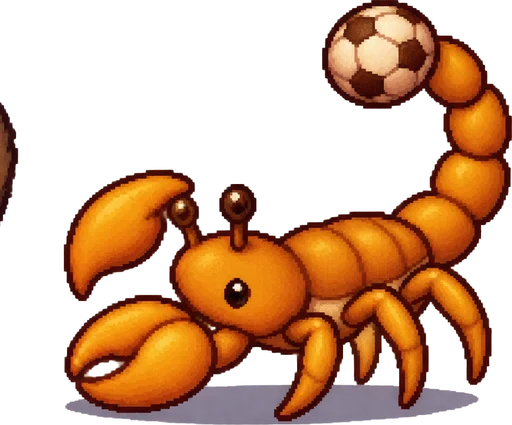
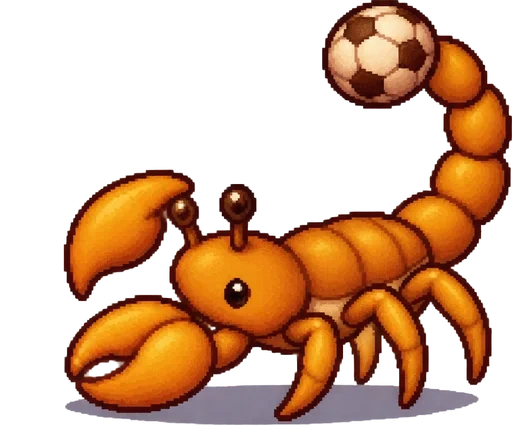
Lenda do Campinho v313: pedaços soltos apagados das artes de 8 bichos (Aranha Goleira e outros)
Pedaços da arte vizinha da grade tinham entrado no recorte (aranha, dragão, escorpião, gárgula, polvo, rato, cristal,
pombo). Apagados sem mudar o tamanho da imagem; ASSET_VER 313 para o navegador pegar a nova.

Changed region(s): [[0.0, 0.2447, 0.0625, 0.52]]

diff --git a/frontend/public/lenda-do-campinho/index.html b/frontend/public/lenda-do-campinho/index.html
@@ -11,8 +11,8 @@
 <link rel="preconnect" href="https://fonts.googleapis.com">
 <link rel="preconnect" href="https://fonts.gstatic.com" crossorigin>
 <link href="https://fonts.googleapis.com/css2?family=Fredoka:wght@500;600;700&family=Nunito:wght@600;700;800&display=swap" rel="stylesheet">
-<link rel="stylesheet" href="css/style.css?v=312">
-<link rel="stylesheet" href="css/inicio.css?v=312">
+<link rel="stylesheet" href="css/style.css?v=313">
+<link rel="stylesheet" href="css/inicio.css?v=313">
 <link rel="icon" href="https://www.educacaogamer.com.br/favicon.png">
 <link rel="manifest" href="manifest.webmanifest">
 <link rel="apple-touch-icon" href="a/icone_192.png">
@@ -155,115 +155,115 @@
   </div>
 </div>
 
-<script src="js/confirma.js?v=312"></script>
-<script src="js/data.js?v=312"></script>
-<script src="js/arte.js?v=312"></script>
-<script src="js/assets.js?v=312"></script>
-<script src="js/world.js?v=312"></script>
-<script src="js/game.js?v=312"></script>
-<script src="js/roupas.js?v=312"></script>
-<script src="js/europa.js?v=312"></script>
-<script src="js/cidades.js?v=312"></script>
-<script src="js/santos_mapa.js?v=312"></script>
-<script src="js/espalha.js?v=312"></script>
-<script src="js/centrinho.js?v=312"></script>
-<script src="js/team.js?v=312"></script>
-<script src="js/copa.js?v=312"></script>
-<script src="js/carreira.js?v=312"></script>
-<script src="js/historia.js?v=312"></script>
-<script src="js/ui.js?v=312"></script>
-<script src="js/penalti.js?v=312"></script>
-<script src="js/bonecos_meta.js?v=312"></script>
-<script src="js/boneco.js?v=312"></script>
-<script src="js/clima.js?v=312"></script>
-<script src="js/itens.js?v=312"></script>
-<script src="js/layout.js?v=312"></script>
-<script src="js/backup.js?v=312"></script>
-<script src="js/minimapa.js?v=312"></script>
-<script src="js/audio.js?v=312"></script>
-<script src="js/jogadas.js?v=312"></script>
-<script src="js/arenas.js?v=312"></script>
-<script src="js/montarias.js?v=312"></script>
-<script src="js/armazem.js?v=312"></script>
-<script src="js/casas.js?v=312"></script>
-<script src="js/celular.js?v=312"></script>
-<script src="js/celular2.js?v=312"></script>
-<script src="js/beta.js?v=312"></script>
-<script src="js/portal.js?v=312"></script>
-<script src="js/nuvem.js?v=312"></script>
-<script src="js/contas.js?v=312"></script><script src="js/sessao_unica.js?v=312"></script>
-<script src="js/protege.js?v=312"></script>
-<script src="js/topo.js?v=312"></script>
-<script src="js/sair.js?v=312"></script>
-<script src="js/lances.js?v=312"></script>
-<script src="js/vocacoes.js?v=312"></script>
-<script src="js/tela.js?v=312"></script>
-<script src="js/agua.js?v=312"></script>
-<script src="js/vento.js?v=312"></script>
-<script src="js/wiki.js?v=312"></script>
-<script src="js/personagens.js?v=312"></script>
-<script src="js/teclas.js?v=312"></script>
-<script src="js/variedade.js?v=312"></script>
-<script src="js/bonecos_meta2.js?v=312"></script>
-<script src="js/bonecos_meta3.js?v=312"></script>
-<script src="js/bonecos_meta4.js?v=312"></script>
-<script src="js/corpos.js?v=312"></script>
-<script src="js/fx.js?v=312"></script>
-<script src="js/cacadas.js?v=312"></script>
-<script src="js/atlantida.js?v=312"></script>
-<script src="js/espaco.js?v=312"></script>
-<script src="js/vale.js?v=312"></script>
-<script src="js/treino.js?v=312"></script>
-<script src="js/cadastro.js?v=312"></script>
-<script src="js/montaria_arte.js?v=312"></script>
-<script src="js/luxo.js?v=312"></script>
-<script src="js/divulgar.js?v=312"></script>
-<script src="js/corrida.js?v=312"></script><script src="js/estadios.js?v=312"></script><script src="js/monumentos.js?v=312"></script><script src="js/ruas.js?v=312"></script><script src="js/ambiente.js?v=312"></script><script src="js/conquistas.js?v=312"></script><script src="js/rastreador.js?v=312"></script><script src="js/alertas.js?v=312"></script><script src="js/ondeachar.js?v=312"></script><script src="js/time_guia.js?v=312"></script><script src="js/jogadas_info.js?v=312"></script><script src="js/dribles_nivel.js?v=312"></script><script src="js/pocoes.js?v=312"></script><script src="js/analisador.js?v=312"></script><script src="js/tarefas.js?v=312"></script><script src="js/diaria.js?v=312"></script><script src="js/avisos.js?v=312"></script><script src="js/saida_trancada.js?v=312"></script><script src="js/cidade_arrumada.js?v=312"></script><script src="js/partida.js?v=312"></script><script src="js/centros_treino.js?v=312"></script><script src="js/grade.js?v=312"></script><script src="js/zona_segura.js?v=312"></script><script src="js/minha_classe.js?v=312"></script>
-<script src="js/app_windows.js?v=312"></script>
-<script src="js/inicio.js?v=312"></script>
-<script src="js/gravacao.js?v=312"></script>
-<script src="js/massagistas.js?v=312"></script>
-<script src="js/arquibancadas.js?v=312"></script>
-<script src="js/asas.js?v=312"></script>
-<script src="js/carreira_metas.js?v=312"></script>
-<script src="js/arquetipos.js?v=312"></script>
-<script src="js/magias_adv.js?v=312"></script>
-<script src="js/santos.js?v=312"></script>
-<script src="js/arcos.js?v=312"></script>
-<script src="js/luz.js?v=312"></script>
-<script src="js/clube_mais.js?v=312"></script>
-<script src="js/compacto.js?v=312"></script>
-<script src="js/ajustes_ui.js?v=312"></script>
-<script src="js/volta_v258.js?v=312"></script>
-<script src="js/cidades_vivas.js?v=312"></script>
-<script src="js/cidades_novas.js?v=312"></script>
-<script src="js/dungeons_novas.js?v=312"></script>
-<script src="js/vila_nova.js?v=312"></script>
-<script src="js/brasil_vivo.js?v=312"></script>
-<script src="js/armazem_forja.js?v=312"></script>
-<script src="js/tarefas_loja.js?v=312"></script>
-<script src="js/carreira_jogos.js?v=312"></script>
-<script src="js/carreira_futebol.js?v=312"></script>
-<script src="js/lendas.js?v=312"></script>
-<script src="js/mapa_marca.js?v=312"></script>
-<script src="js/missoes_colecao.js?v=312"></script>
-<script src="js/espaco_novo.js?v=312"></script>
-<script src="js/pontes.js?v=312"></script>
-<script src="js/futebol_dicas.js?v=312"></script>
-<script src="js/visual_itens.js?v=312"></script>
-<script src="js/balanco_xp.js?v=312"></script>
-<script src="js/santos_jogadores.js?v=312"></script>
-<script src="js/pescoco_arte.js?v=312"></script>
-<script src="js/fps.js?v=312"></script>
-<script src="js/adornos.js?v=312"></script>
-<script src="js/desempenho.js?v=312"></script>
-<script src="js/roupas_tecidos.js?v=312"></script>
-<script src="js/chapeus_arte.js?v=312"></script>
-<script src="js/cacas_calmas.js?v=312"></script>
-<script src="js/viagens_equip.js?v=312"></script>
-<script src="js/bichos_vivos.js?v=312"></script>
-<script src="js/economia_ouro.js?v=312"></script>
-<script src="js/celular3.js?v=312"></script>
-<script src="js/graficos.js?v=312"></script>
+<script src="js/confirma.js?v=313"></script>
+<script src="js/data.js?v=313"></script>
+<script src="js/arte.js?v=313"></script>
+<script src="js/assets.js?v=313"></script>
+<script src="js/world.js?v=313"></script>
+<script src="js/game.js?v=313"></script>
+<script src="js/roupas.js?v=313"></script>
+<script src="js/europa.js?v=313"></script>
+<script src="js/cidades.js?v=313"></script>
+<script src="js/santos_mapa.js?v=313"></script>
+<script src="js/espalha.js?v=313"></script>
+<script src="js/centrinho.js?v=313"></script>
+<script src="js/team.js?v=313"></script>
+<script src="js/copa.js?v=313"></script>
+<script src="js/carreira.js?v=313"></script>
+<script src="js/historia.js?v=313"></script>
+<script src="js/ui.js?v=313"></script>
+<script src="js/penalti.js?v=313"></script>
+<script src="js/bonecos_meta.js?v=313"></script>
+<script src="js/boneco.js?v=313"></script>
+<script src="js/clima.js?v=313"></script>
+<script src="js/itens.js?v=313"></script>
+<script src="js/layout.js?v=313"></script>
+<script src="js/backup.js?v=313"></script>
+<script src="js/minimapa.js?v=313"></script>
+<script src="js/audio.js?v=313"></script>
+<script src="js/jogadas.js?v=313"></script>
+<script src="js/arenas.js?v=313"></script>
+<script src="js/montarias.js?v=313"></script>
+<script src="js/armazem.js?v=313"></script>
+<script src="js/casas.js?v=313"></script>
+<script src="js/celular.js?v=313"></script>
+<script src="js/celular2.js?v=313"></script>
+<script src="js/beta.js?v=313"></script>
+<script src="js/portal.js?v=313"></script>
+<script src="js/nuvem.js?v=313"></script>
+<script src="js/contas.js?v=313"></script><script src="js/sessao_unica.js?v=313"></script>
+<script src="js/protege.js?v=313"></script>
+<script src="js/topo.js?v=313"></script>
+<script src="js/sair.js?v=313"></script>
+<script src="js/lances.js?v=313"></script>
+<script src="js/vocacoes.js?v=313"></script>
+<script src="js/tela.js?v=313"></script>
+<script src="js/agua.js?v=313"></script>
+<script src="js/vento.js?v=313"></script>
+<script src="js/wiki.js?v=313"></script>
+<script src="js/personagens.js?v=313"></script>
+<script src="js/teclas.js?v=313"></script>
+<script src="js/variedade.js?v=313"></script>
+<script src="js/bonecos_meta2.js?v=313"></script>
+<script src="js/bonecos_meta3.js?v=313"></script>
+<script src="js/bonecos_meta4.js?v=313"></script>
+<script src="js/corpos.js?v=313"></script>
+<script src="js/fx.js?v=313"></script>
+<script src="js/cacadas.js?v=313"></script>
+<script src="js/atlantida.js?v=313"></script>
+<script src="js/espaco.js?v=313"></script>
+<script src="js/vale.js?v=313"></script>
+<script src="js/treino.js?v=313"></script>
+<script src="js/cadastro.js?v=313"></script>
+<script src="js/montaria_arte.js?v=313"></script>
+<script src="js/luxo.js?v=313"></script>
+<script src="js/divulgar.js?v=313"></script>
+<script src="js/corrida.js?v=313"></script><script src="js/estadios.js?v=313"></script><script src="js/monumentos.js?v=313"></script><script src="js/ruas.js?v=313"></script><script src="js/ambiente.js?v=313"></script><script src="js/conquistas.js?v=313"></script><script src="js/rastreador.js?v=313"></script><script src="js/alertas.js?v=313"></script><script src="js/ondeachar.js?v=313"></script><script src="js/time_guia.js?v=313"></script><script src="js/jogadas_info.js?v=313"></script><script src="js/dribles_nivel.js?v=313"></script><script src="js/pocoes.js?v=313"></script><script src="js/analisador.js?v=313"></script><script src="js/tarefas.js?v=313"></script><script src="js/diaria.js?v=313"></script><script src="js/avisos.js?v=313"></script><script src="js/saida_trancada.js?v=313"></script><script src="js/cidade_arrumada.js?v=313"></script><script src="js/partida.js?v=313"></script><script src="js/centros_treino.js?v=313"></script><script src="js/grade.js?v=313"></script><script src="js/zona_segura.js?v=313"></script><script src="js/minha_classe.js?v=313"></script>
+<script src="js/app_windows.js?v=313"></script>
+<script src="js/inicio.js?v=313"></script>
+<script src="js/gravacao.js?v=313"></script>
+<script src="js/massagistas.js?v=313"></script>
+<script src="js/arquibancadas.js?v=313"></script>
+<script src="js/asas.js?v=313"></script>
+<script src="js/carreira_metas.js?v=313"></script>
+<script src="js/arquetipos.js?v=313"></script>
+<script src="js/magias_adv.js?v=313"></script>
+<script src="js/santos.js?v=313"></script>
+<script src="js/arcos.js?v=313"></script>
+<script src="js/luz.js?v=313"></script>
+<script src="js/clube_mais.js?v=313"></script>
+<script src="js/compacto.js?v=313"></script>
+<script src="js/ajustes_ui.js?v=313"></script>
+<script src="js/volta_v258.js?v=313"></script>
+<script src="js/cidades_vivas.js?v=313"></script>
+<script src="js/cidades_novas.js?v=313"></script>
+<script src="js/dungeons_novas.js?v=313"></script>
+<script src="js/vila_nova.js?v=313"></script>
+<script src="js/brasil_vivo.js?v=313"></script>
+<script src="js/armazem_forja.js?v=313"></script>
+<script src="js/tarefas_loja.js?v=313"></script>
+<script src="js/carreira_jogos.js?v=313"></script>
+<script src="js/carreira_futebol.js?v=313"></script>
+<script src="js/lendas.js?v=313"></script>
+<script src="js/mapa_marca.js?v=313"></script>
+<script src="js/missoes_colecao.js?v=313"></script>
+<script src="js/espaco_novo.js?v=313"></script>
+<script src="js/pontes.js?v=313"></script>
+<script src="js/futebol_dicas.js?v=313"></script>
+<script src="js/visual_itens.js?v=313"></script>
+<script src="js/balanco_xp.js?v=313"></script>
+<script src="js/santos_jogadores.js?v=313"></script>
+<script src="js/pescoco_arte.js?v=313"></script>
+<script src="js/fps.js?v=313"></script>
+<script src="js/adornos.js?v=313"></script>
+<script src="js/desempenho.js?v=313"></script>
+<script src="js/roupas_tecidos.js?v=313"></script>
+<script src="js/chapeus_arte.js?v=313"></script>
+<script src="js/cacas_calmas.js?v=313"></script>
+<script src="js/viagens_equip.js?v=313"></script>
+<script src="js/bichos_vivos.js?v=313"></script>
+<script src="js/economia_ouro.js?v=313"></script>
+<script src="js/celular3.js?v=313"></script>
+<script src="js/graficos.js?v=313"></script>
 </body>
 </html>

diff --git a/frontend/public/lenda-do-campinho/js/bichos_vivos.js b/frontend/public/lenda-do-campinho/js/bichos_vivos.js
@@ -10,6 +10,8 @@
    Carregar DEPOIS de corrida.js.
    ============================================================ */
 {
+  // v313: pedaços soltos de arte vizinha apagados (o dono viu um pedaço sobrando do lado da Aranha Goleira)
+  if (typeof ASSET_VER !== 'undefined') for (const n of ['bicho_aranha', 'bicho_dragao', 'bicho_escorpiao', 'bicho_gargula', 'bicho_polvo', 'bicho_rato2', 'et_cristal', 'pombo2']) ASSET_VER[n] = 313;
   const ARRASTA = new Set(['bicho_mumia']); // brigando parado: passos no lugar
   const _quadroVivo = quadroBicho;
   quadroBicho = function (e, nome, look) {
